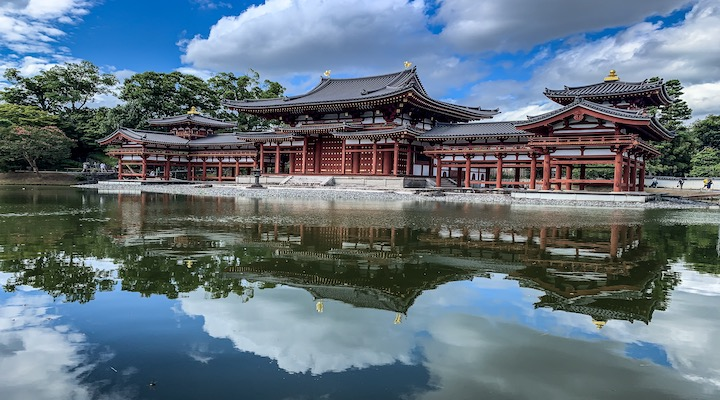
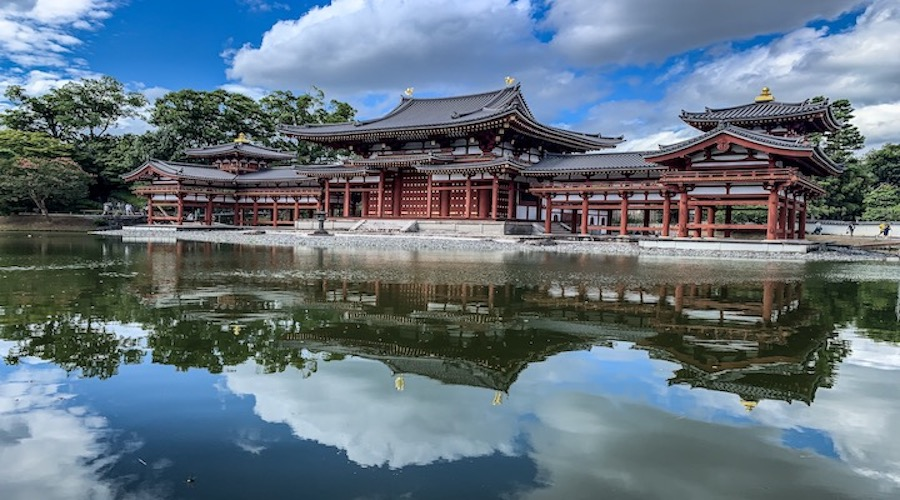
commit11 slider RWD ok

diff --git a/js/main.js b/js/main.js
@@ -1,34 +1,16 @@
-'use strict';
-
-$(function() {
-
-  var width = 720;
-  var animationSpeed = 1000;
-  var pause = 3000;
-  var currentSlide = 1; 
-
-  var slider = $('#slider');
-  var slideContainer = slider.find('.slides');
-  var slides = slideContainer.find('.slide');
-  var interval;
-  
-  function startSlider(){
-      interval = setInterval(function() {
-          slideContainer.animate({'margin-left': '-='+width},animationSpeed, function(){
-            currentSlide++;
-            if(currentSlide === slides.length){
-              currentSlide = 1;
-              slideContainer.css('margin-left', 0);
-            }
-          });
-        }, pause);
-      }
-      function stopSlider(){
-        clearInterval(interval);
-      }
-  slider.on('mouseenter', stopSlider).on('mouseleave',startSlider);
-  startSlider();
-})
+// slider
+$(function(){
+	var setImg = '.slider';
+	var fadeSpeed = 1500;
+	var switchDelay = 5000;
+ 
+	$(setImg).children('img').css({opacity:'0'});
+	$(setImg + ' img:first').stop().animate({opacity:'1',zIndex:'20'},fadeSpeed);
+ 
+	setInterval(function(){
+		$(setImg + ' :first-child').animate({opacity:'0'},fadeSpeed).next('img').animate({opacity:'1'},fadeSpeed).end().appendTo(setImg);
+	},switchDelay);
+});
 
 
 // back to top

diff --git a/css/main.css b/css/main.css
@@ -60,28 +60,14 @@ margin: 25px 0;
 
 
 /* ------ slider -------- */
-#slider{
-  margin: 0 auto ;
-  width: 720px;
-  height: 400px;
-  overflow: hidden;
+.slider{
+  width: 100%;
+  height: 500px;
 }
-
-#slider .slides{
-  display: block;
-  width: 7920px;
-  height: 400px;
-  margin: 0;
-  padding: 0;
+.slider>img{
+  width: 100%;
+  height: 100%;
 }
-
-#slider .slide{
-  float: left;
-  list-style: none;
-  width: 720px;
-  height: 400px;
-}
-
 
 /*------- 紹介 -------*/
 .text_box{
@@ -152,6 +138,7 @@ footer p {
     width: 95%;
   }
 
+  /*----- nav -----*/
   .nav_list{
     display: block;
   }
@@ -164,7 +151,11 @@ footer p {
     font-size: 14px;
   }
 
-  /*------ mao ------*/
+  /*----- slider ------*/
+  .slider{
+    height: 200px;
+  }
+  /*------ map ------*/
   iframe{
     width: 100%;
   }
@@ -173,15 +164,15 @@ footer p {
 }/* 削除だめ */
 
 
-/*-------- response ---------*/
 /*------- tablet -------*/
 @media screen and (max-width: 800px){
   .container{
     width: 95%;
     }
 
-  #slider{
-    width: 100%;
+  /*----- slider -----*/
+  .slider{
+    height: 400px;
   }
 
   /*------ mao ------*/

diff --git a/css/access.css b/css/access.css
@@ -67,10 +67,30 @@ h2{
 }
 
 /*----- map -----*/
-iframe{
-  width: 1000px;
+.iframe{
+  width: 100%;
   height: 500px;
-  margin-bottom: 10px;
+  margin-bottom: 50px;
+}
+iframe{
+  width: 100%;
+  height: 100%;
+}
+
+/* 交通方法  */
+.access-box{
+  width: 100%;
+}
+
+.access-box>img{
+  width: 100%;
+}
+
+h3 {
+  font-size: 28px;
+  font-weight: normal;
+  border-bottom: 1px #333 solid;
+  margin-bottom: 20px;
 }
 
 /* #target {

diff --git a/index.php b/index.php
@@ -26,21 +26,19 @@
     </nav>
 
     <!---------- slider --------->
-    <div id="slider">
-        <ul class="slides">
-          <li class="slide"><img src="img/mainbg.jpg" alt=""></li>
-          <li class="slide"><img src="img/pic00.JPG" alt=""></li>
-          <li class="slide"><img src="img/pic01.JPG" alt=""></li>
-          <li class="slide"><img src="img/pic02.jpeg" alt=""></li>
-          <li class="slide"><img src="img/pic03.jpeg" alt=""></li>
-          <li class="slide"><img src="img/pic04.jpeg" alt=""></li>
-          <li class="slide"><img src="img/pic05.jpeg" alt=""></li>
-          <li class="slide"><img src="img/pic06.jpeg" alt=""></li>
-          <li class="slide"><img src="img/pic07.jpeg" alt=""></li>
-          <li class="slide"><img src="img/pic08.jpeg" alt=""></li>
-          <li class="slide"><img src="img/mainbg.jpg" alt=""></li>
-        </ul>
-      </div>
+    <div class="slider">
+      <img src="img/mainbg.jpg" alt="">
+      <img src="img/pic00.JPG" alt="">
+      <img src="img/pic01.JPG" alt="">
+      <img src="img/pic02.jpeg" alt="">
+      <img src="img/pic03.jpeg" alt="">
+      <img src="img/pic04.jpeg" alt="">
+      <img src="img/pic05.jpeg" alt="">
+      <img src="img/pic06.jpeg" alt="">
+      <img src="img/pic07.jpeg" alt="">
+      <img src="img/pic08.jpeg" alt="">
+      <img src="img/mainbg.jpg" alt="">
+    </div>
 
   <!------------ textbox -------->
     <div class="text_box">

diff --git a/access.php b/access.php
@@ -35,10 +35,29 @@
    
 
     <!-- <div class="mapbox"> -->
-      <iframe src="https://www.google.com/maps/embed/v1/place?key=AIzaSyBEkcgYzwKRr5Abxkx821yZw1WApR3dCUU&q=山梨県 南都留郡 山中湖村 山中 1445-1" ></iframe>
+      <div class="iframe">
+        <iframe src="https://www.google.com/maps/embed/v1/place?key=AIzaSyBEkcgYzwKRr5Abxkx821yZw1WApR3dCUU&q=山梨県 南都留郡 山中湖村 山中 1445-1" ></iframe>
+      </div>
+
+
+      <div class="access-box">
+        <h3>東京方面からのアクセス</h3>
+        <div>■お車でのアクセス</div>
+        <img src="img/access1.png" alt="">
+        <div>■バスでのアクセス</div>
+        <img src="img/access2.png" alt="">
+        <div>■電車からのアクセス</div>
+        <img src="img/access3.png" alt="">
+      </div>
+
+      <div class="access-box">
+        <h3>関西方面からのアクセス</h3>
+        <div>■お車でのアクセス</div>
+        <img src="img/access4.png" alt="">
+        <div>■電車からのアクセス</div>
+        <img src="img/access5.png" alt="">
+      </div>
       <!-- <div id="target"></div> -->
-   
-      
       <!-- <script src="https://maps.googleapis.com/maps/api/js?language=ja&region=JP&key=AIzaSyBEkcgYzwKRr5Abxkx821yZw1WApR3dCUU&callback=initMap" async defer></script> -->
     <!-- </div> -->
 
